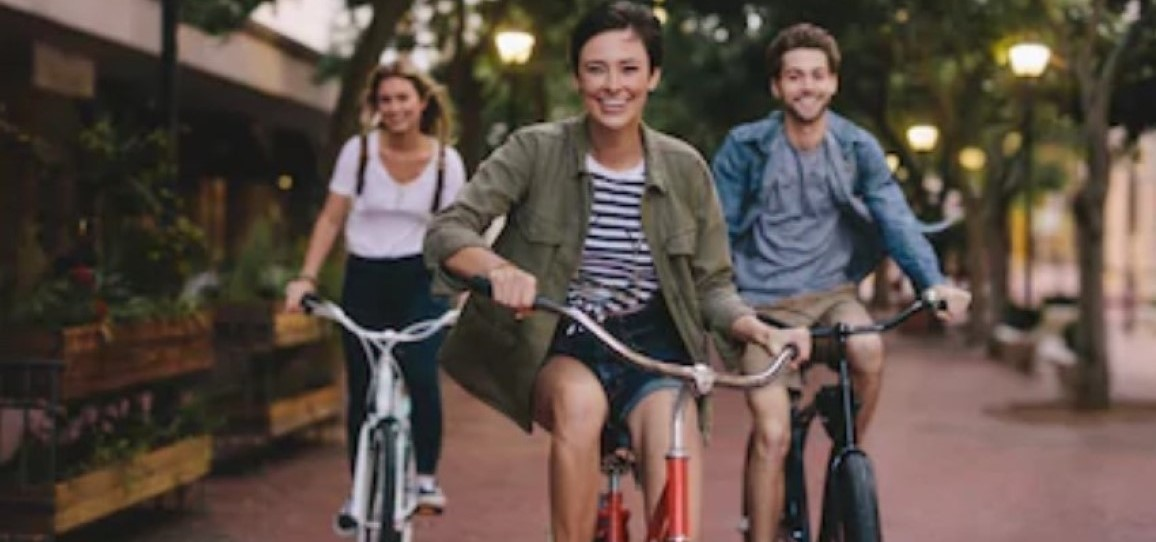
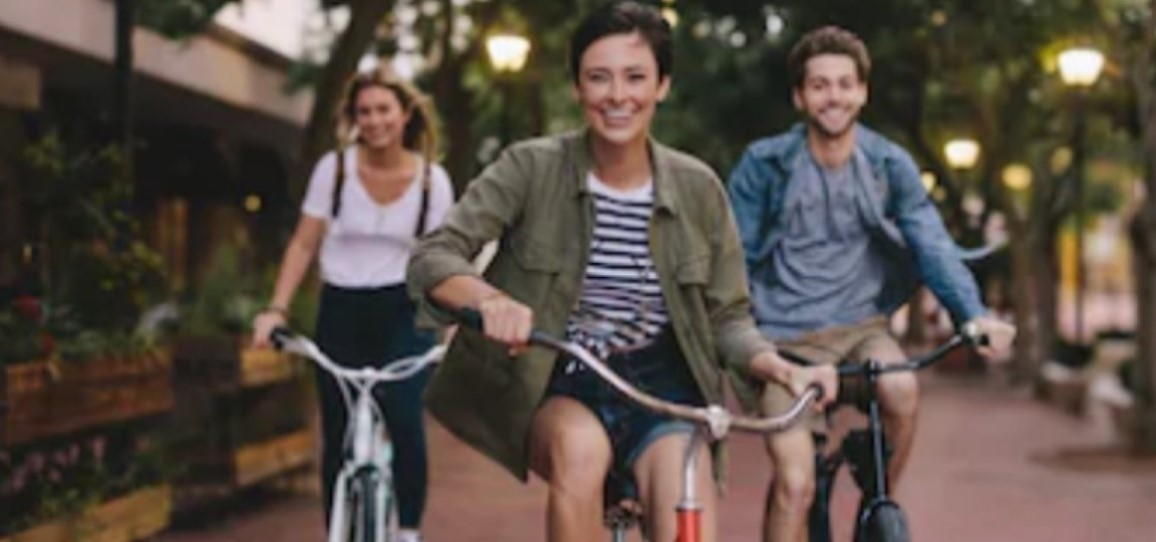
animation fadeIn et Out ok - redim images ok

diff --git a/slideshow/slideshow.js b/slideshow/slideshow.js
@@ -4,19 +4,26 @@
 var slideIndex = 1;
 showDivs(slideIndex);
 
+
 //fonction qui affiche la diapo demandée (selon index) et cache les autres
 var ensbleSlides = ensbleSlides;
 
 function showDivs(n) {
     var i;
-    var ensbleSlides = document.getElementsByClassName("elements_slide_slider1");
+    var ensbleSlides = $(".elements_slide_slider1");
     //si l'index est > au nombre d'élements -> remise à zero, sinon affiche la slide demandée
-    if (n > ensbleSlides.length) {slideIndex = 1} 
-    if (n < 1) {slideIndex = ensbleSlides.length} ;
+    if (n > ensbleSlides.length) {
+        slideIndex = 1
+    };
+    //si on est à la 1ere slide retour à la dernière
+    if (n < 1) {
+        slideIndex = ensbleSlides.length
+    };
     for (i = 0; i < ensbleSlides.length; i++) {
-        ensbleSlides[i].style.display = "none"; 
-    }
-    ensbleSlides[slideIndex-1].style.display = "block"; 
+        $(ensbleSlides[i]).hide(); 
+    };
+    
+    $(ensbleSlides[slideIndex - 1]).show();
 }
 
 //Fonction pour faire défiler manuellement le slider
@@ -36,26 +43,29 @@ function right(){
 
 
 //Déplacement au clic fleches droite et gauche de l'écran
-var buttonLeft = document.getElementById("button_left");
-var buttonRight = document.getElementById("button_right");
+var buttonLeft = $("#button_left");
+var buttonRight = $("#button_right");
 
-buttonLeft.addEventListener("click", left);
-buttonRight.addEventListener("click", right);
+buttonLeft.click(left);
+buttonRight.click(right);
 
 
 
 //Déplacement slider aux touches fleches droite et gauche clavier
-document.addEventListener("keydown", function(){
+function keydownLeft(){
     if(event.keyCode==37){
         left();
     }
-});
+};
 
-document.addEventListener("keydown", function(){
+function keydownRight(){
     if(event.keyCode==39){
         right();
     }
-});
+};
+
+$("html").keydown(keydownRight);
+$("html").keydown(keydownLeft);
 
 //Fonction défilement automatique
 var slideIndex = 0;
@@ -63,12 +73,30 @@ carousel();
 
 function carousel() {
     var i;
-    var ensbleSlides = document.getElementsByClassName("elements_slide_slider1");
+    var ensbleSlides = $(".elements_slide_slider1");
     for (i = 0; i < ensbleSlides.length; i++) {
-      ensbleSlides[i].style.display = "none"; 
-    }
+      $(ensbleSlides[i]).hide(); 
+    };
+    
     slideIndex++;
-    if (slideIndex > ensbleSlides.length) {slideIndex = 1} 
-    ensbleSlides[slideIndex-1].style.display = "block"; 
+    if (slideIndex > ensbleSlides.length) {slideIndex = 1}; 
+    
     setTimeout(carousel, 5000); // passe suivante toutes les 5s
-}
+    $(ensbleSlides[slideIndex - 1]).fadeIn(1000); 
+    $(ensbleSlides[slideIndex - 1]).delay(3000).fadeOut(1000);
+
+}; 
+
+    //Gestion bouton pause
+    var buttonPause= $(".fa-pause");
+
+    var sourisPause = buttonPause.hover(stopDefil, playDefil);
+    function stopDefil() {console.log("test entree");};
+    function playDefil() {console.log("test sortie");};
+
+
+   
+    
+    
+
+

diff --git a/slideshow/slideshow_style.css b/slideshow/slideshow_style.css
@@ -4,12 +4,7 @@ adaptation tablette et écrans PC avec media Queries*/
 
 .elements_slide_slider1 {
     position: relative;
-    transition: transform 1s ease; /* transitions slider */ 
 }
-
-.elements_slide_slider1:hover {
-transform: translateX(-100%);
-} 
 
 .img_slider1  {
     width: 100%;  
@@ -82,18 +77,14 @@ transform: translateX(-100%);
     left: 1%;
 }
 
-#button_pause,#button_play {
+.fa-pause {
     position: absolute;
     top: 5%;
     right: 15%;
     font-size: 300%;
     color: #cb1a19;
-    opacity: 0; /*position de depart boutons cachés */
 }
 
-#button_pause {
-    opacity: 1;
-}
 
 
 

diff --git a/index.html b/index.html
@@ -52,10 +52,11 @@
         
         <i class="fas fa-chevron-circle-left" id="button_left"></i>
         <i class="fas fa-chevron-circle-right" id="button_right"></i>
-        <i class="fas fa-pause" id="button_pause"></i>
-        <i class="fas fa-play" id="button_play"></i>
+        <i class="fas fa-pause"></i>
     </section>
-        
+
+    
+<script type="text/javascript" src="https://ajax.googleapis.com/ajax/libs/jquery/3.1.0/jquery.min.js"></script>
 <script src="slideshow/slideshow.js"></script>	
 </body>
 </html>
